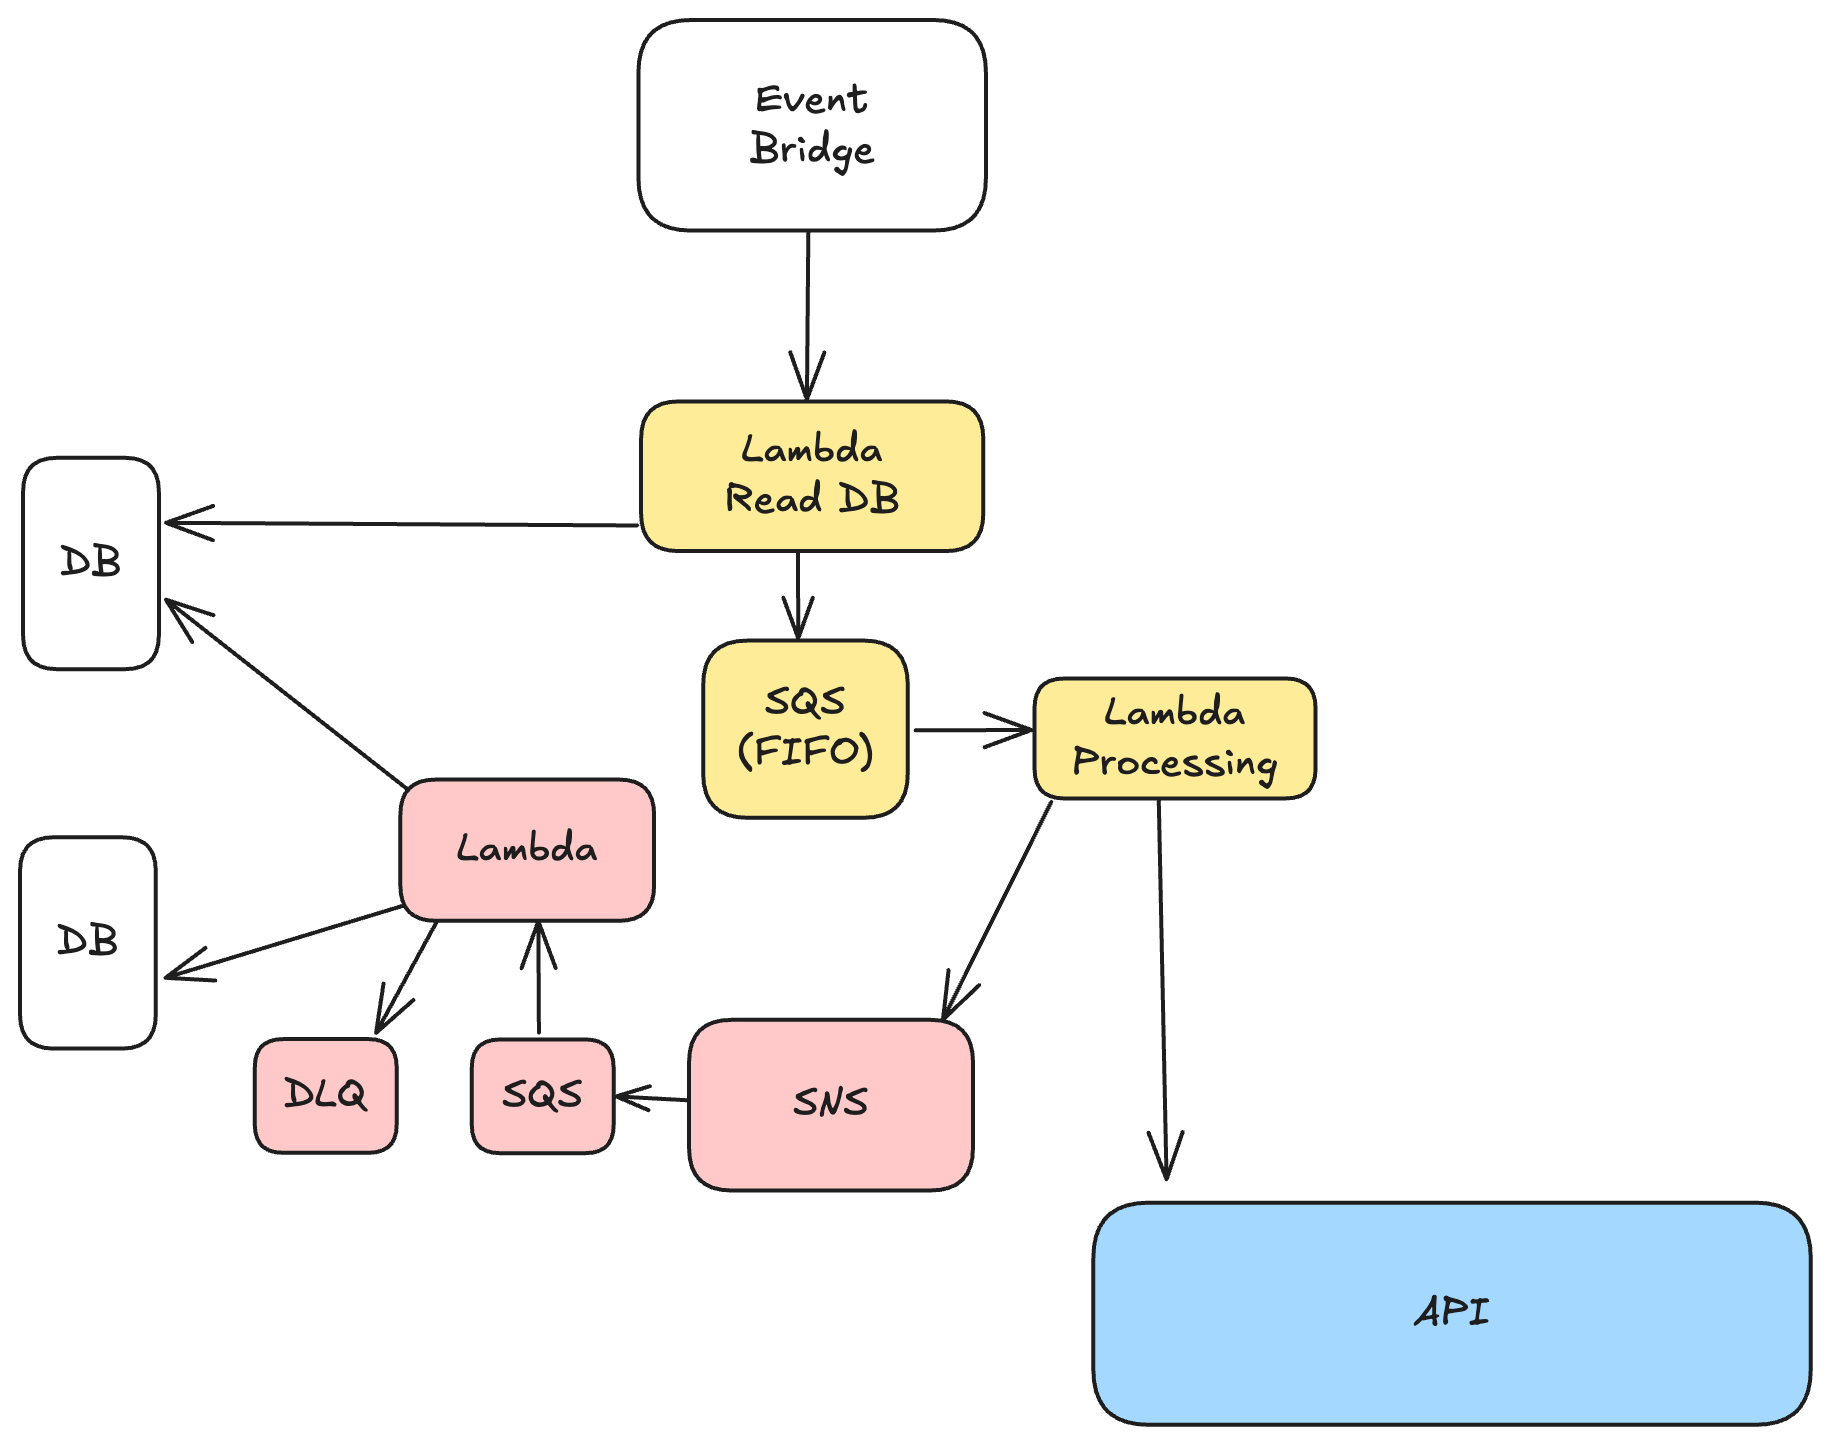
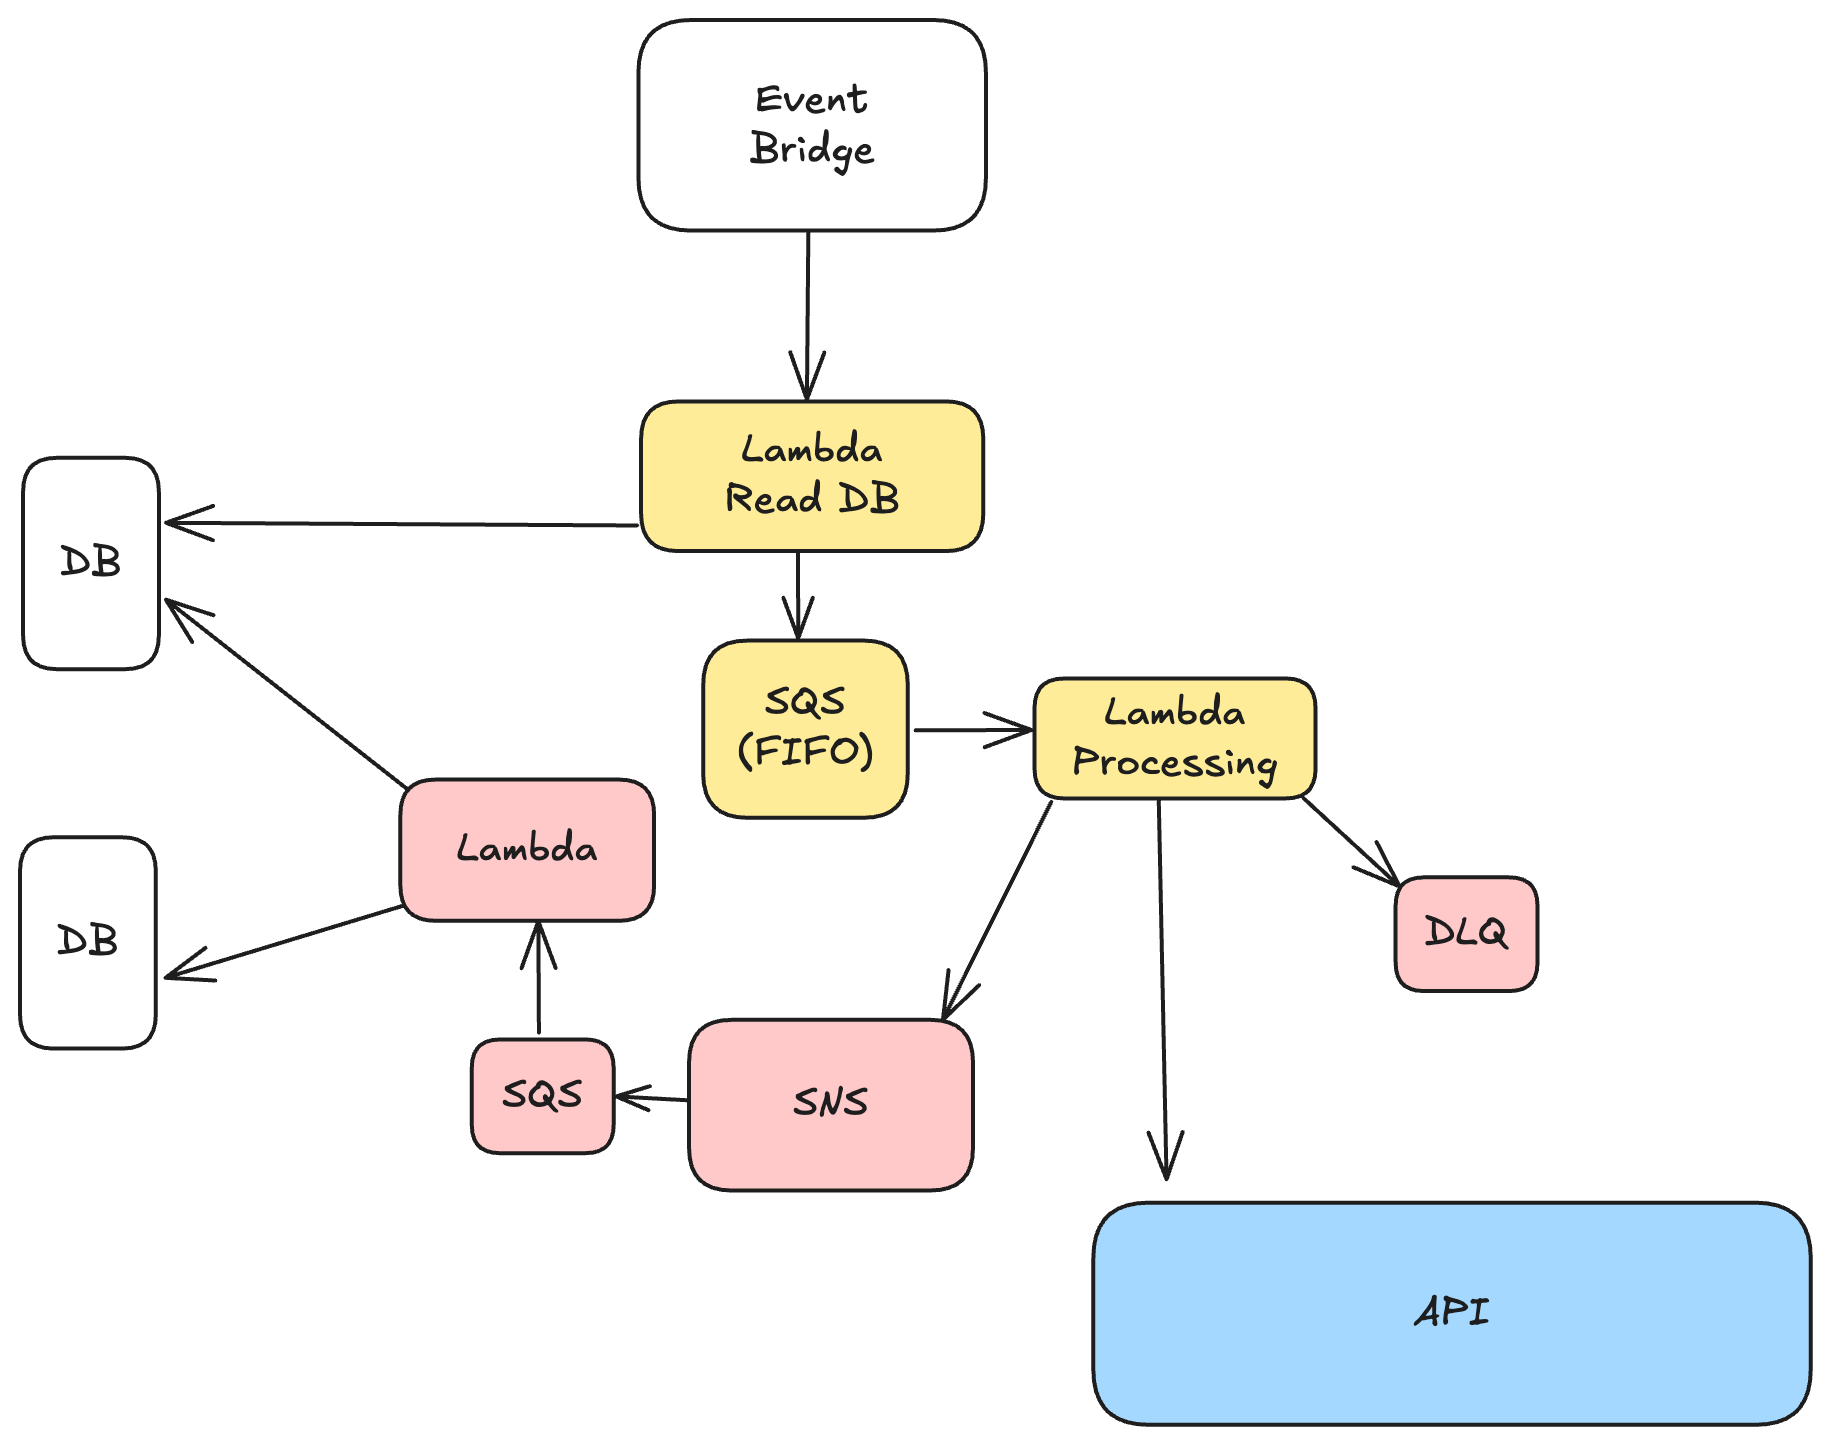
Some changes in the implementation

Changed region(s): [[0.1246, 0.6856, 0.218, 0.8102], [0.7475, 0.5921, 0.841, 0.6856], [0.7164, 0.5609, 0.7475, 0.5921]]

diff --git a/README.md b/README.md
@@ -28,12 +28,13 @@ La propuesta para poder afrontar los requerimientos mencionados anteriormente, e
 - Configurar EventBridge con una Lambda. Entonces al invocar la función la misma lee todos los registros en estado `pending` desde la base de datos.
 - Por cada registro, se envía un mensaje a una cola SQS del tipo FIFO. Este tipo de queue nos facilita la unicidad de mensajes, entonces podemos usar el provider como unico (MessageGroupId = provider_id).
 - Procesamos los mensajes de la queue con otra Lambda, la cual realiza la request a la API, y evaluan el resultado.
-    - Si la respuesta de la API tiene errores, esta Lambda evalua si son recuperables para reintentar el mismo mensaje.
-    - En los casos de que la respuesta sea exitosa o retorne un error irrecuperable, se postea un mensaje en un tópico de SNS.
+    - Si la API falla, debemos evaluar el error recibido.
+    - Si el error es transitorio (timeout red, error 5xx del sistema), la Lambda puede reintentar internamente (exponential backoff) antes de fallar en serio.
+    - Si el limite de reintentos es superado, es un error "irrecuperable" y el mensaje es enviado a una Dead Letter Queue.
+    - Si obtenemos una respuesta exitosa de la API se postea un mensaje en un tópico de SNS.
 - Los mensajes que se postean al SNS son encolados en SQS y procesados por otra Lambda.
 - Esta Lambda evalua el tipo de mensaje:
     - Si es exitoso, actualiza el registro en la base de datos cambiando su estado a `success` por ejemplo.
     - Además, almacena el resultado en otra base de datos.
-    - Si por el contrario el mensaje es de error, postea el mismo en una Dead Letter Queue.
 
 ![alt text](/images/diagram-1.png "Proposal")
